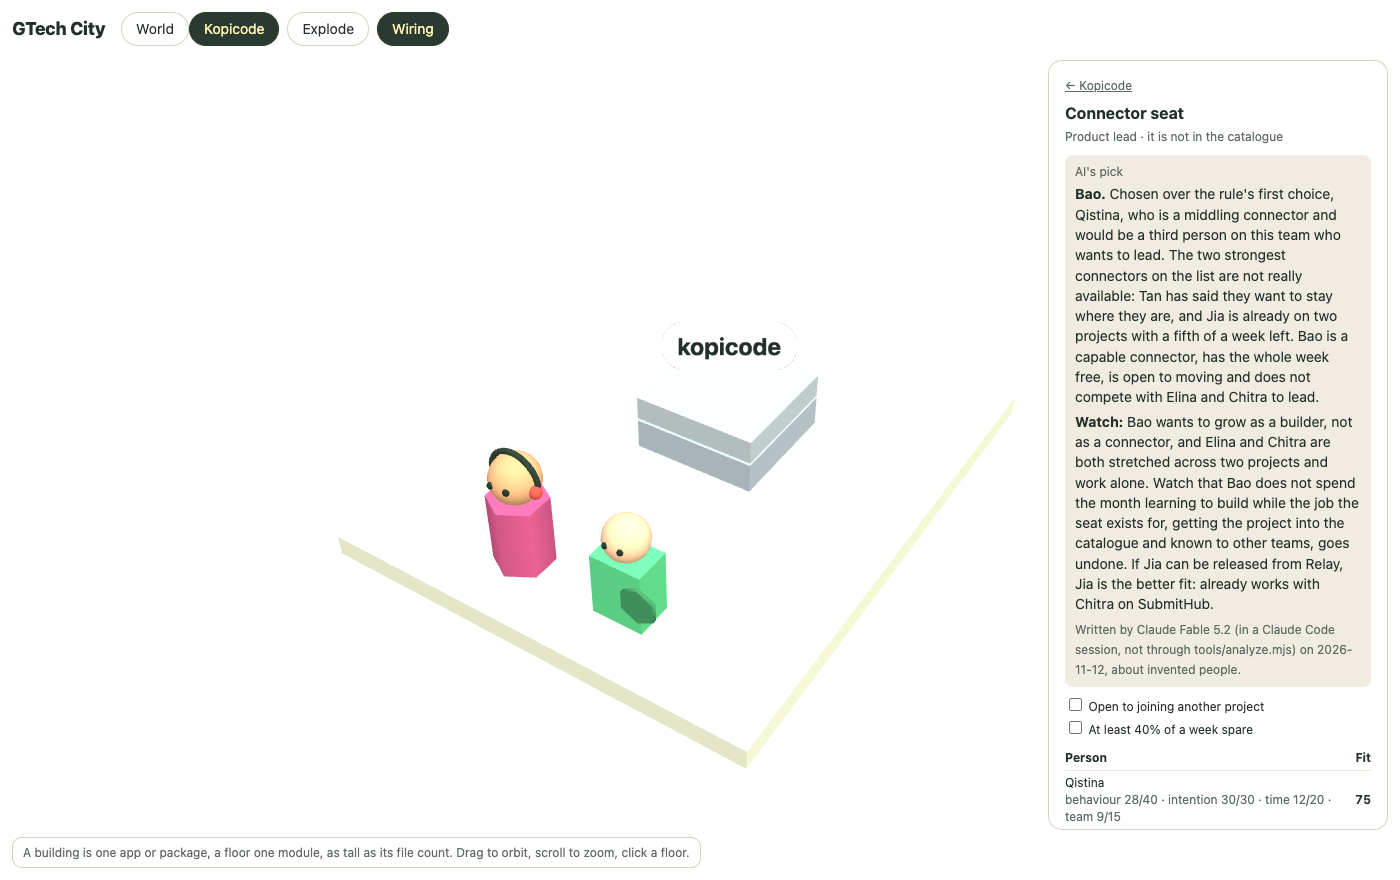
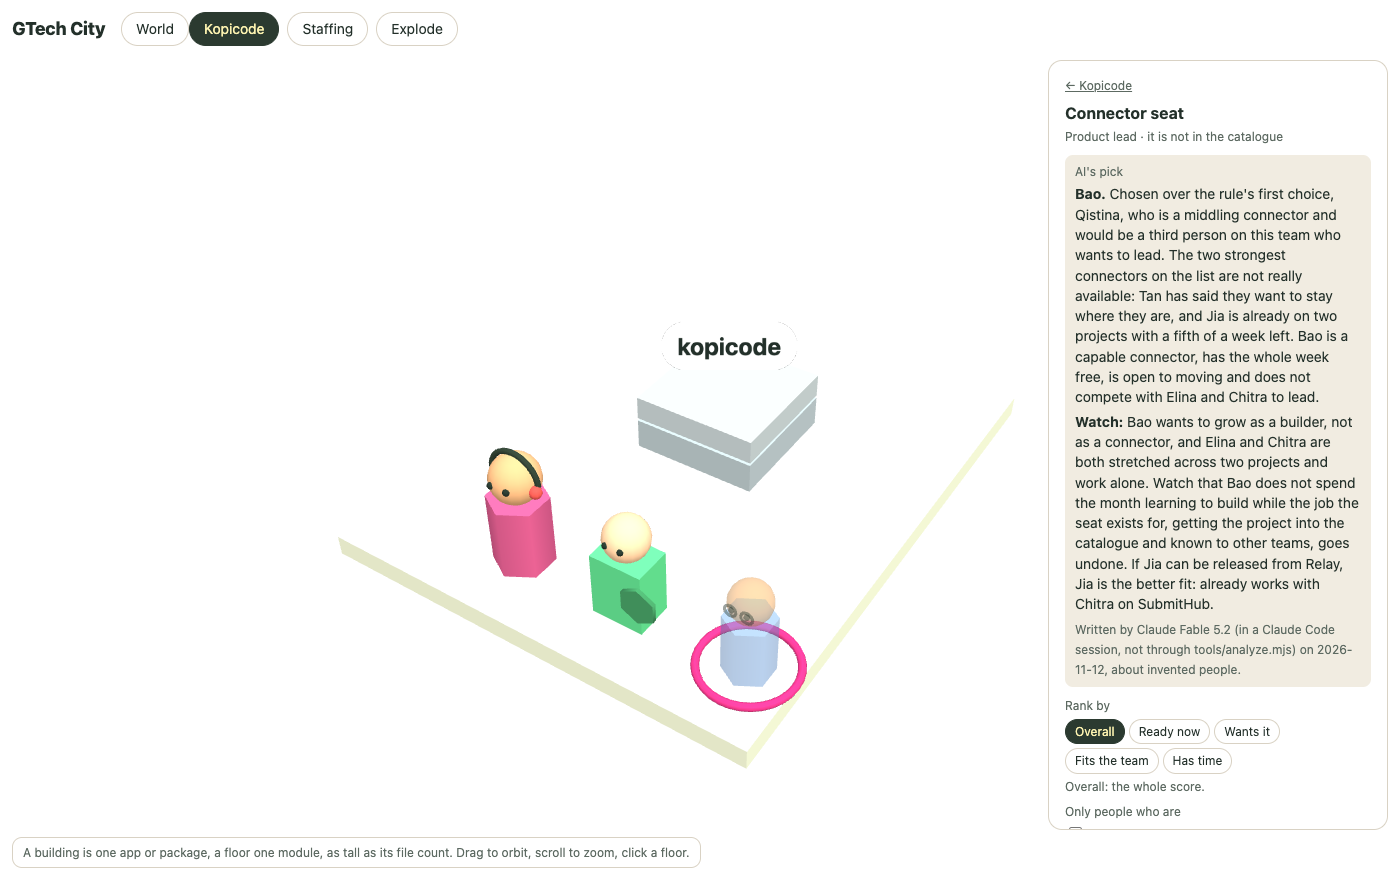
docs: where the seats, the Staffing view and the candidate in the seat are found

Changed region(s): [[0.7371, 0.7977, 0.9521, 0.9511], [0.4914, 0.6443, 0.5836, 0.8284], [0.215, 0.0, 0.3379, 0.0614]]

diff --git a/README.md b/README.md
@@ -31,10 +31,19 @@ Each person has a **behaviour** (how they work: their pace, whether they work al
 
 ![A seat's shortlist, with the model's pick above the rule's ranking](docs/seat.png)
 
+Where to find it on the page:
+
+- **In the world**, a dot above a project is a seat it has open, in the colour of the trait it needs.
+- **Staffing**, in the bar, lists every open seat with who the rule and the model would put in it, and every person with what they are on and the time they have left.
+- **A project's card** lists its team and its open seats, whether or not the project can be entered.
+- **Inside a project**, the candidate being looked at stands see-through at the end of the team, on a ring that marks the seat.
+
+![Every open seat and every person on one card](docs/staffing.png)
+
 It works in three layers, each shown on the page with its reasons:
 
-1. **Open seats, by rule.** A project opens a seat when under 10% of its source files are tests (Guardian), when it has had no commit in 90 days (Builder), when it has no owner or is not in the catalogue (Connector), or when nobody on its team has a trait. At most two seats a project.
-2. **A shortlist, by rule.** Everyone not on the team is scored, and the score shown as a share of 100: behaviour 40 (strength in the seat's trait, and the habit that suits the seat), intention 40 (wants to grow that trait, drawn to the seat's business area, open to moving, lead or specialise), time 20 (the share of a week they have left), fit with the team 20 (the seat's habit counts for more where the team lacks it, a way of working counts for more the closer it is to the team's, and one more person who wants to lead is a clash). A candidate's card shows every part of the score. The invented quality figure plays no part.
+1. **Open seats, by rule.** A project opens a seat when under 10% of its source files are tests (Guardian), when its documentation is over 180 days old (Guardian), when it has had no commit in 90 days (Builder), when it has no owner or is not in the catalogue (Connector), or when nobody on its team has a trait. The tests and commit rules need a scanned repository; the others work from the catalogue. At most two seats a project.
+2. **A shortlist, by rule.** Everyone not on the team is scored, and the score shown as a share of 100: behaviour 40 (strength in the seat's trait, and the habit that suits the seat), intention 40 (wants to grow that trait, drawn to the seat's business area, open to moving, lead or specialise), time 20 (the share of a week they have left), fit with the team 20 (the seat's habit counts for more where the team lacks it, a way of working counts for more the closer it is to the team's, and one more person who wants to lead is a clash). A candidate's card shows every part of the score. The invented quality figure plays no part. A shortlist can be ranked by the whole score or by one part of it (ready now, wants it, fits the team, has time), and narrowed by filters; it says who a filter left out and why.
 3. **A model's reading.** `tools/analyze.mjs` sends the mock people and each seat's top five to Claude and writes `site/analysis.js`: a short reading of each person, a line on each candidate, the model's own pick and the main risk in it. The page shows this beside the rule's ranking and never in place of it. The model can see what the rule cannot, for example that the best-fitting person is already on two projects and would have to be released from one.
 
 ![One candidate against one seat: the score's parts, then what the model said](docs/candidate.png)
@@ -44,7 +53,9 @@ What to know before trusting any of it:
 - **Every person is invented.** The ranking shows how the match works and says nothing about anyone real. With real people this becomes profiling for staffing decisions, which needs consent, a way to contest a result and HR's agreement before any data goes in.
 - **The weights and the habits are guesses.** That a Builder seat suits working in bursts, that intention is worth as much as behaviour, or that a team is better for someone who works the way it does, is a choice made for the demo with no data behind it.
 - **The rule's view of a team is crude.** It compares a candidate with the team's averages and counts who wants to lead. It knows nothing of how particular people get on.
-- **Only a scanned project can be entered.** The catalogue's other projects have a team, shown on their card, but no seats: the rules that open a seat need a repository to read.
+- **Only a scanned project can be entered.** The catalogue's other projects have a team and seats on their card, but no inside, so no candidate stands in their seats.
+- **The rule fills each seat as if it were the only one.** The same person can head several shortlists, as the Staffing card shows; nothing yet works out one plan in which each person takes one seat.
+- **The model has only read the scanned project's seats.** The committed analysis covers every person and Kopicode's two seats; the catalogue projects' seats show the rule's ranking alone.
 - **The committed `site/analysis.js` was written by Claude in a coding session**, from the exact input the tool prints with `--dry`, because no API key was to hand. Each box on the page says so. The tool's own call to the API has not been run.
 - **The model only picks among the rule's top five.** It can reorder them; it cannot bring in someone the rule ranked sixth.
 
